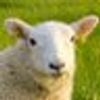
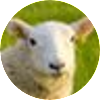
Modified `saveImage()` method
Modified `saveImage()` method so that fetched images are rounded

diff --git a/public/modules/imageController.js b/public/modules/imageController.js
@@ -2,12 +2,38 @@ const axios = require("axios");
 const sharp = require("sharp");
 
 async function saveImage(name, url) {
-    const { data } = await axios.get(url, {
-        responseType: "arraybuffer",
-    });
+	await axios({
+	  url,
+	  responseType: "arraybuffer",
+	}).then(
+	  (response) =>
+		new Promise((resolve, reject) => {
+		  const roundedCorners = new Buffer.from(
+			'<svg><rect x="0" y="0" width="100" height="100" rx="50" ry="50"/></svg>'
+		  );
+		  resolve(
+			sharp(response.data)
+			  .resize(100, 100)
+			  .composite([
+				{
+				  input: roundedCorners,
+				  blend: "dest-in",
+				},
+			  ])
+			  .toFile(`public/images/${name}.png`)
+		  );
+		})
+	);
+  }
 
-    await sharp(data).resize(100, 100).toFile(`public/images/${name}.png`);
-}
+
+// async function saveImage(name, url) {
+//     const { data } = await axios.get(url, {
+//         responseType: "arraybuffer",
+//     });
+
+//     await sharp(data).resize(100, 100).toFile(`public/images/${name}.png`);
+// }
 
 
 

diff --git a/README.md b/README.md
@@ -69,11 +69,12 @@ This project is created to create a Twitter Bot in NodeJS that fetches 3 latest 
 	- [x] Create `imageController.js` module which contains methods to manipulate images.
 	- [x] Install **Axios** package using `npm i axios`, which performs our HTTP requests.
 	- [x] Install **Sharp** package using `npm i sharp`, which modifies fetched images and save it to our **File System**.
-	- [x] Create `saveImage()` method in `imageController.js` which fetches profile picture of followers using axios and save them to our **images** folder.
+	- [x] Create `saveImage()` method in `imageController.js` which fetches **rounded** profile picture of followers using axios and save them to our **images** folder.
 	- [x] Call `getProfileImageUrl()` and `saveImage()` methods in `index.js` module.
 	- [x] Test `generateHeader()` wrapper function and check if images are fetched(IT WORKS :partying_face:)
 
 6. ### Create Header
+
 	<!-- - [x] Install **Jimp** package using `npm install --save jimp`, which will help us create **Dynamic Twitter Header**. -->
 	- [x] Create a `createHeader()` method in `imageController.js` module which creates `dynamicTwitterHeader.png` using `headerTemplate.png` and fetched profile picture of our **followers**.
 
